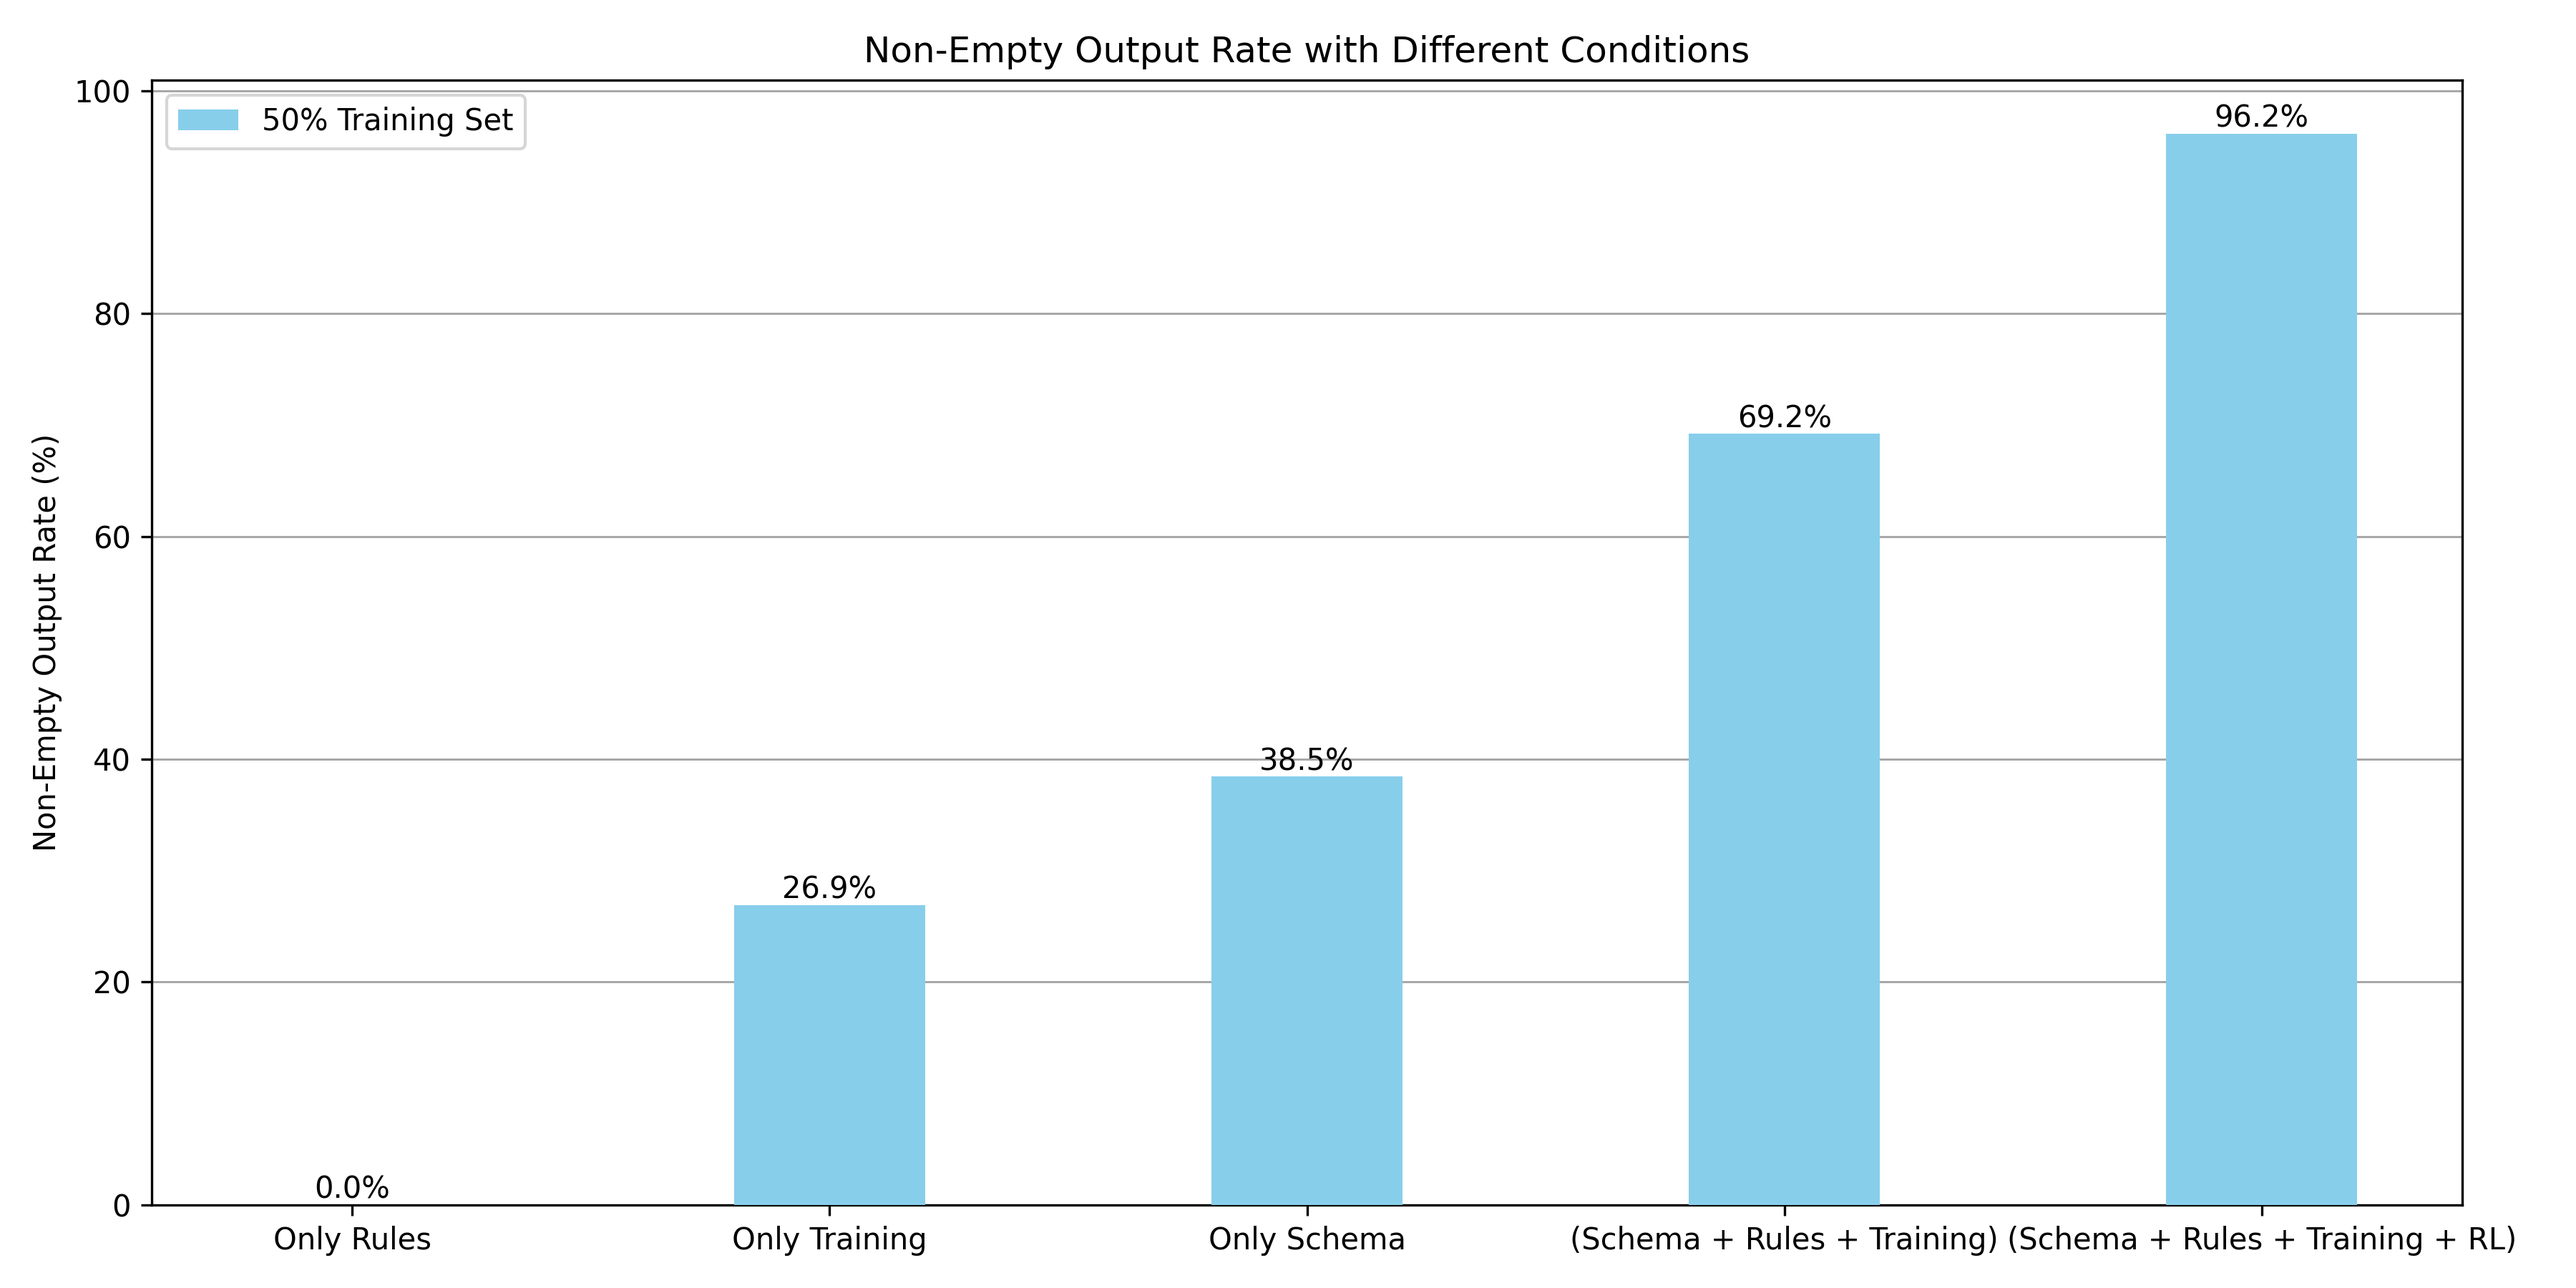
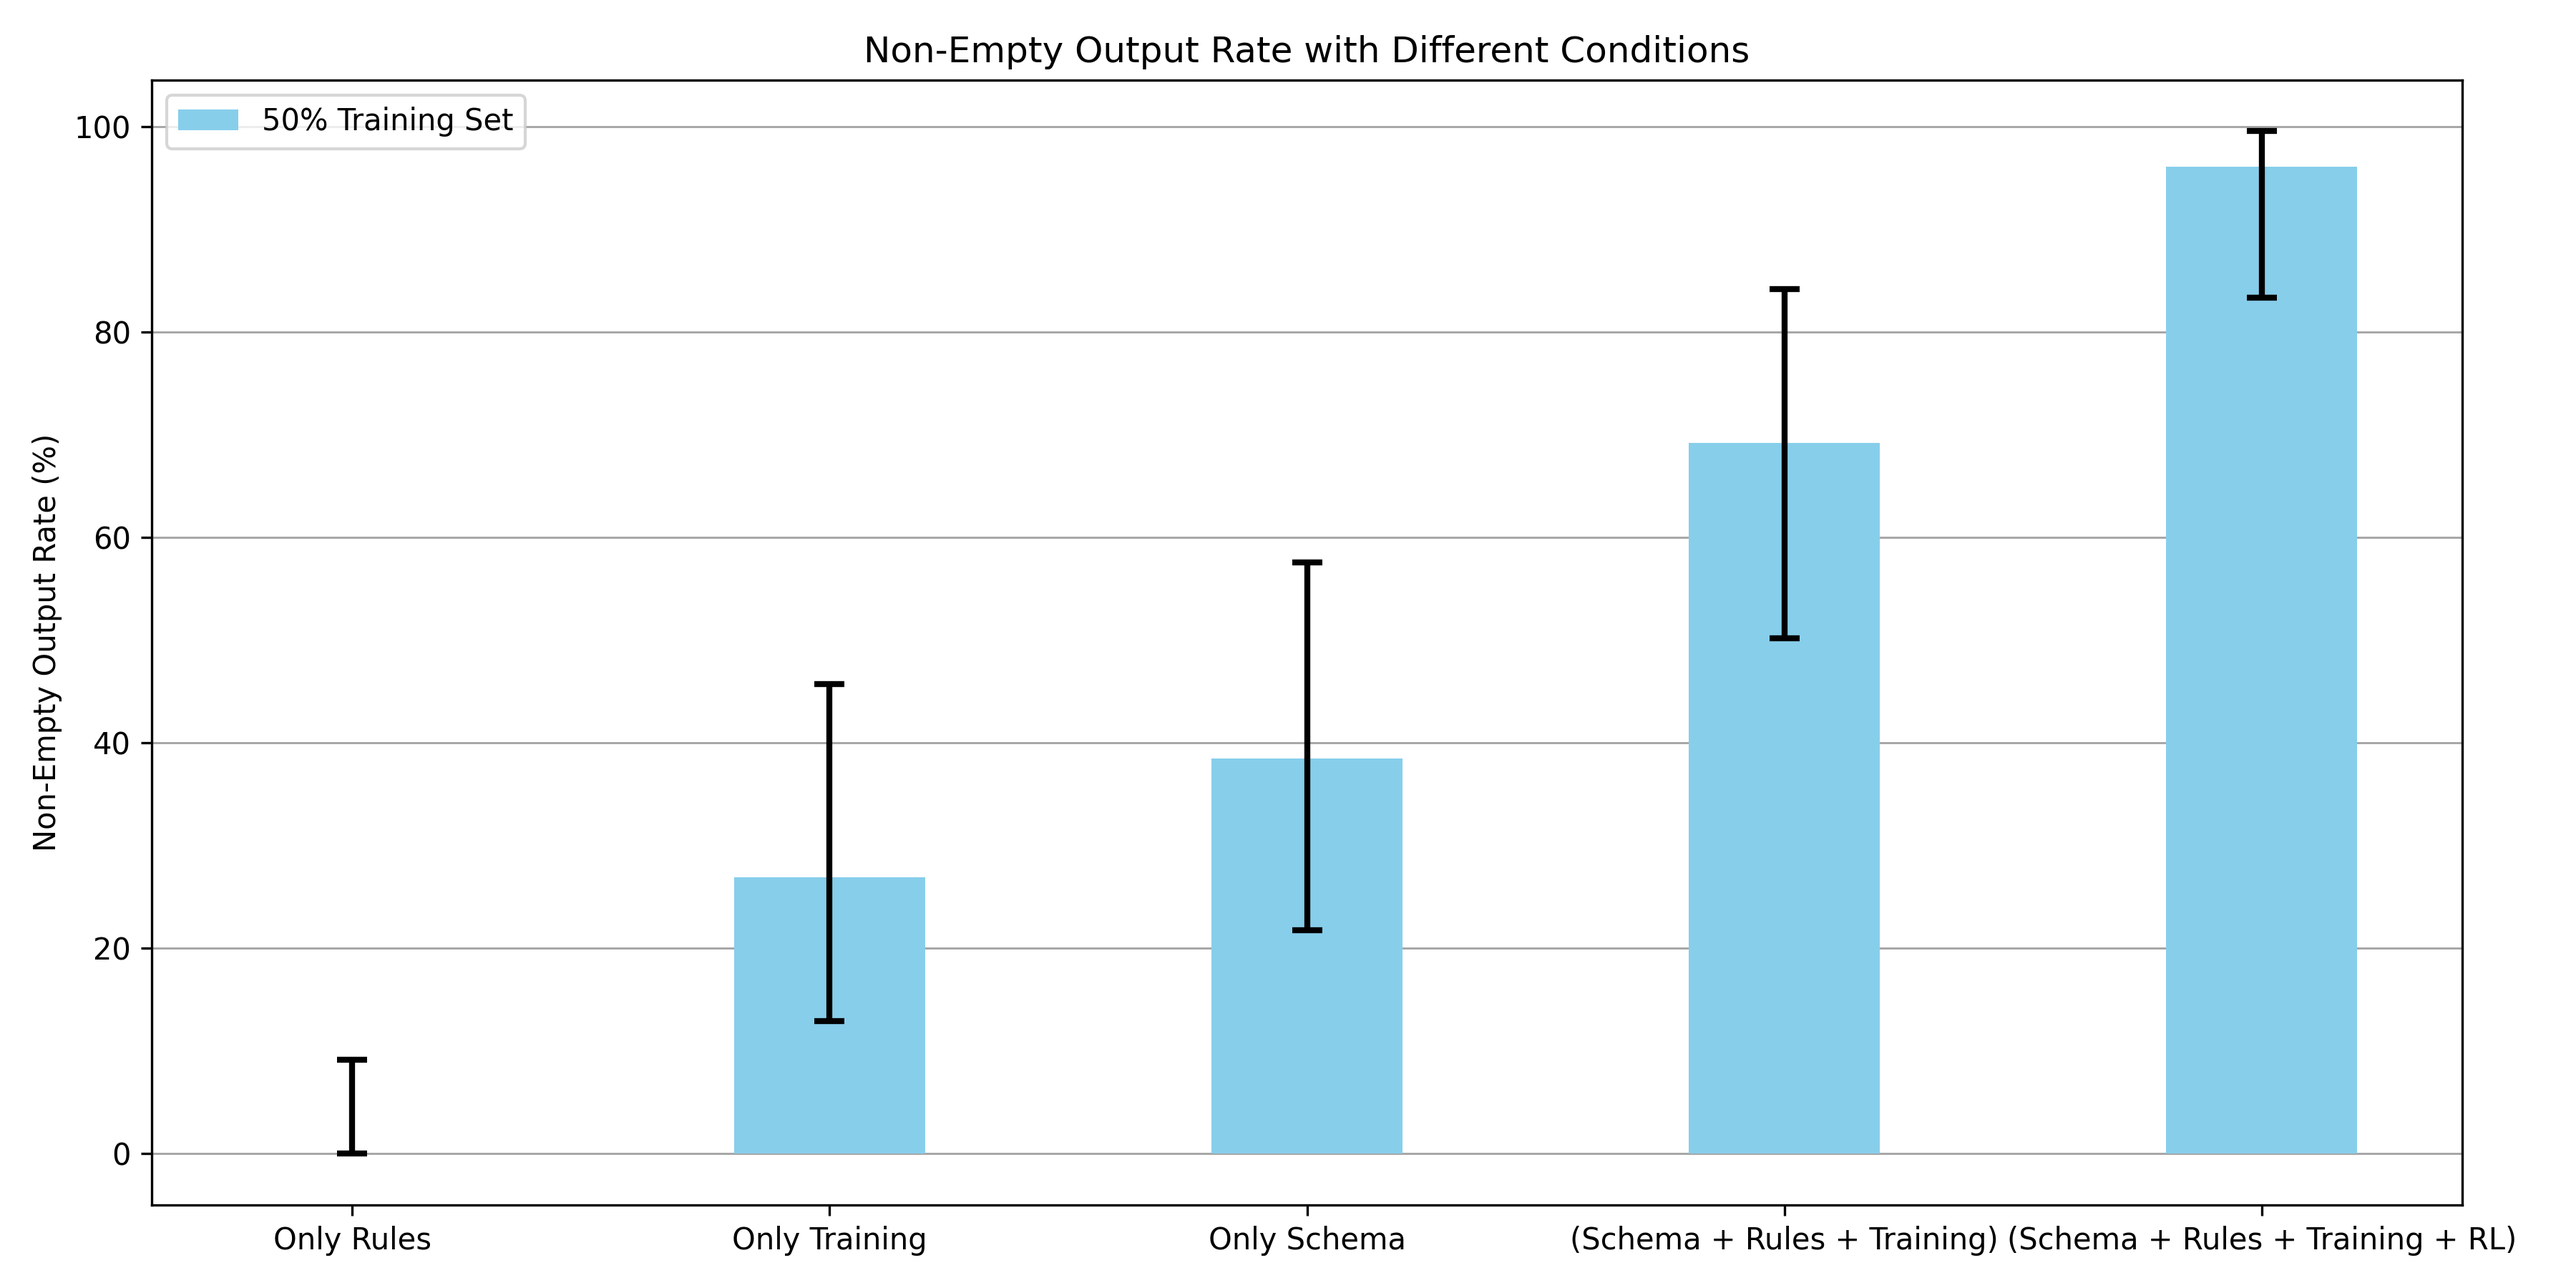
Add error bar

diff --git a/visualise.py b/visualise.py
@@ -1,37 +1,45 @@
 import numpy as np
 import matplotlib.pyplot as plt
+import pandas as pd
+from scipy.stats import beta
+
+# Function to compute 95% confidence intervals
+def proportion_ci(n, p):
+    a = n * p + 0.5
+    b = n * (1 - p) + 0.5
+    p0_025 = beta.isf(1 - 0.025, a, b)  # 2.5% centile
+    p0_975 = beta.isf(1 - 0.975, a, b)  # 97.5% centile
+    return pd.Series({'p0_025': p0_025, 'p0_975': p0_975})
 
 # Labels for different conditions
-conditions = [
-    # "No schema, No training", "No schema, No rules, Yes training", 
-    # "Yes schema, No rules, No training", "Yes schema, Yes rules, No training",
-    # "No schema, Yes rules, Yes training", "Yes schema, Yes rules (at bottom), Yes training",
-    # "Yes schema, No rules, Yes training", "Yes schema, Yes rules, Yes training"
-
-    "Only Rules", "Only Training", "Only Schema", 
-    "(Schema + Rules + Training)", "(Schema + Rules + Training + RL)"
-]
+conditions = ["Only Rules", "Only Training", "Only Schema", 
+              "(Schema + Rules + Training)", "(Schema + Rules + Training + RL)"]
 
 # Convert to percentages
-results_50 = np.array([0, 7, 10, 18, 25]) * 100 / 26
-# results_75 = np.array([np.nan, np.nan, np.nan, np.nan, np.nan]) * 100 / 13
-# results_75 = np.array([np.nan, np.nan, np.nan, np.nan, 10]) * 100 / 13
+n_trials = 26  # Number of trials
+results_50 = np.array([0, 7, 10, 18, 25]) / n_trials  # Proportion
+
+# Compute confidence intervals
+ci_50 = [proportion_ci(n_trials, p) for p in results_50]
+ci_50 = pd.DataFrame(ci_50)
+
+# Convert to percentage values
+results_50 *= 100
+ci_50 *= 100
+errors = np.abs(ci_50[['p0_025', 'p0_975']].sub(results_50, axis=0).T.values)
 
 # Set up x-axis positions
 x = np.arange(len(conditions))
-bar_width = 0.4  # Adjust bar width
+bar_width = 0.4  
 
 # Create figure and axis object
 fig, ax = plt.subplots(figsize=(12, 6))
 
-# Plot all 50% bars centered
-bars = ax.bar(x, results_50, width=bar_width, label="50% Training Set", color='skyblue', zorder=3)
+# Plot bars with error bars
+bars = ax.bar(x, results_50, width=bar_width, label="50% Training Set", 
+              color='skyblue', zorder=3, yerr=errors, capsize=5, error_kw={'elinewidth': 2, 'markeredgewidth': 2})
 
-# Plot 75% Training Set only for the last condition, side by side
-# ax.bar(x[-1] - bar_width/2, results_50[-1], width=bar_width, color='skyblue', zorder=3)  # Replot last 50% bar slightly left
-# ax.bar(x[-1] + bar_width/2, results_75[-1], width=bar_width, label="75% Training Set", color='orange', zorder=3)  # 75% bar right
-
-# Add subtle grey grid behind the bars (zorder=0 ensures it's behind the bars)
+# Add grey grid
 ax.grid(axis='y', color='grey', linestyle='-', linewidth=0.7, alpha=0.7, zorder=0)
 
 # Formatting
@@ -41,15 +49,6 @@ ax.set_ylabel("Non-Empty Output Rate (%)")
 ax.set_title("Non-Empty Output Rate with Different Conditions")
 ax.legend()
 
-# Add percentage labels on top of each bar
-for bar in bars:
-    yval = bar.get_height()
-    ax.text(bar.get_x() + bar.get_width() / 2, yval, f"{yval:.1f}%", ha='center', va='bottom')
-
 plt.tight_layout()
-
-# Save the plot
 plt.savefig("nor.png", dpi=300)
-
-# Show plot
 plt.show()
